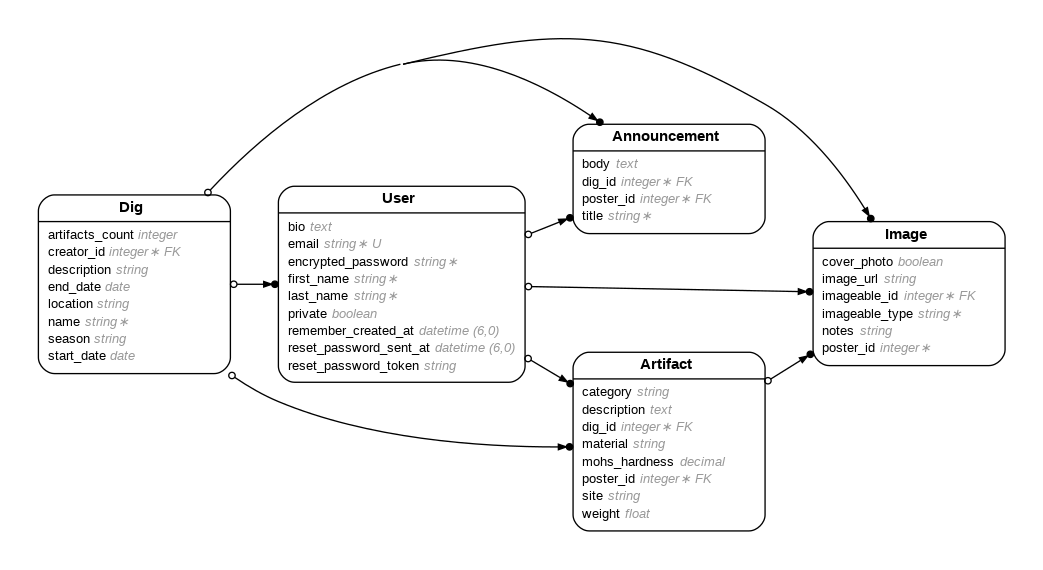
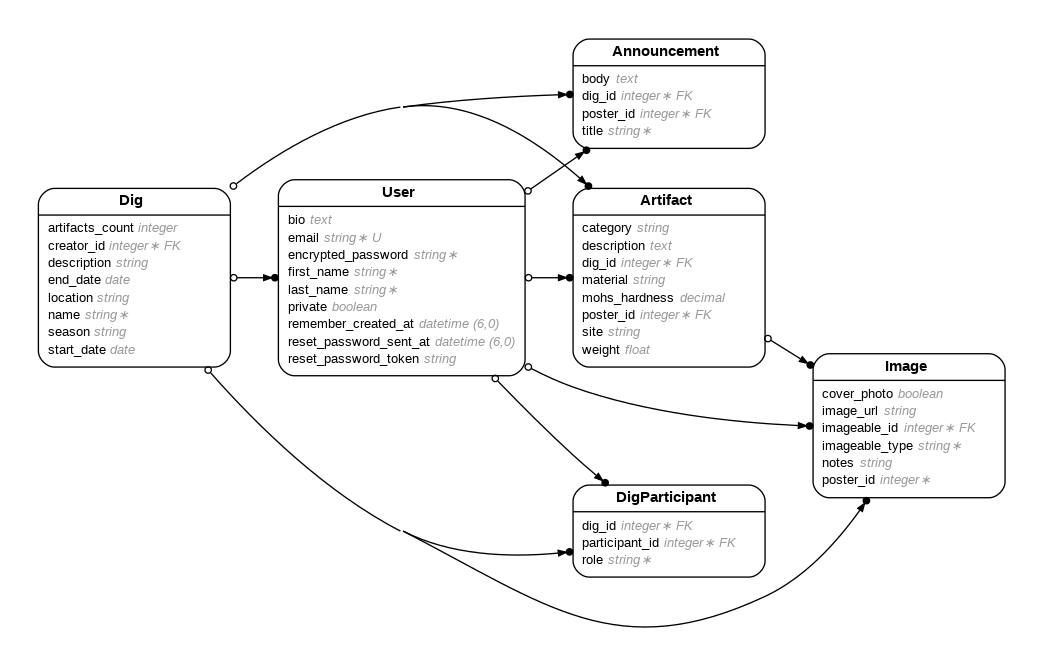
Removed username index from migration

diff --git a/db/schema.rb b/db/schema.rb
@@ -37,6 +37,17 @@ ActiveRecord::Schema[7.0].define(version: 2023_11_19_184412) do
     t.index ["poster_id"], name: "index_artifacts_on_poster_id"
   end
 
+  create_table "dig_participants", force: :cascade do |t|
+    t.integer "dig_id", null: false
+    t.integer "participant_id", null: false
+    t.string "role"
+    t.datetime "created_at", null: false
+    t.datetime "updated_at", null: false
+    t.index ["dig_id", "participant_id"], name: "index_dig_participants_on_dig_id_and_participant_id", unique: true
+    t.index ["dig_id"], name: "index_dig_participants_on_dig_id"
+    t.index ["participant_id"], name: "index_dig_participants_on_participant_id"
+  end
+
   create_table "digs", force: :cascade do |t|
     t.string "name"
     t.string "location"
@@ -64,17 +75,6 @@ ActiveRecord::Schema[7.0].define(version: 2023_11_19_184412) do
     t.index ["poster_id"], name: "index_images_on_poster_id"
   end
 
-  create_table "participants", force: :cascade do |t|
-    t.integer "dig_id", null: false
-    t.integer "participant_id", null: false
-    t.string "role"
-    t.datetime "created_at", null: false
-    t.datetime "updated_at", null: false
-    t.index ["dig_id", "participant_id"], name: "index_participants_on_dig_id_and_participant_id", unique: true
-    t.index ["dig_id"], name: "index_participants_on_dig_id"
-    t.index ["participant_id"], name: "index_participants_on_participant_id"
-  end
-
   create_table "users", force: :cascade do |t|
     t.string "email", default: "", null: false
     t.string "encrypted_password", default: "", null: false
@@ -96,8 +96,8 @@ ActiveRecord::Schema[7.0].define(version: 2023_11_19_184412) do
   add_foreign_key "announcements", "users", column: "poster_id"
   add_foreign_key "artifacts", "digs"
   add_foreign_key "artifacts", "users", column: "poster_id"
+  add_foreign_key "dig_participants", "digs"
+  add_foreign_key "dig_participants", "users", column: "participant_id"
   add_foreign_key "digs", "users", column: "creator_id"
   add_foreign_key "images", "users", column: "poster_id"
-  add_foreign_key "participants", "digs"
-  add_foreign_key "participants", "users", column: "participant_id"
 end

diff --git a/db/migrate/20231031160741_devise_create_users.rb b/db/migrate/20231031160741_devise_create_users.rb
@@ -41,7 +41,6 @@ class DeviseCreateUsers < ActiveRecord::Migration[7.0]
 
     add_index :users, :email,                unique: true
     add_index :users, :reset_password_token, unique: true
-    add_index :users, :username, unique: true
     # add_index :users, :confirmation_token,   unique: true
     # add_index :users, :unlock_token,         unique: true
   end
